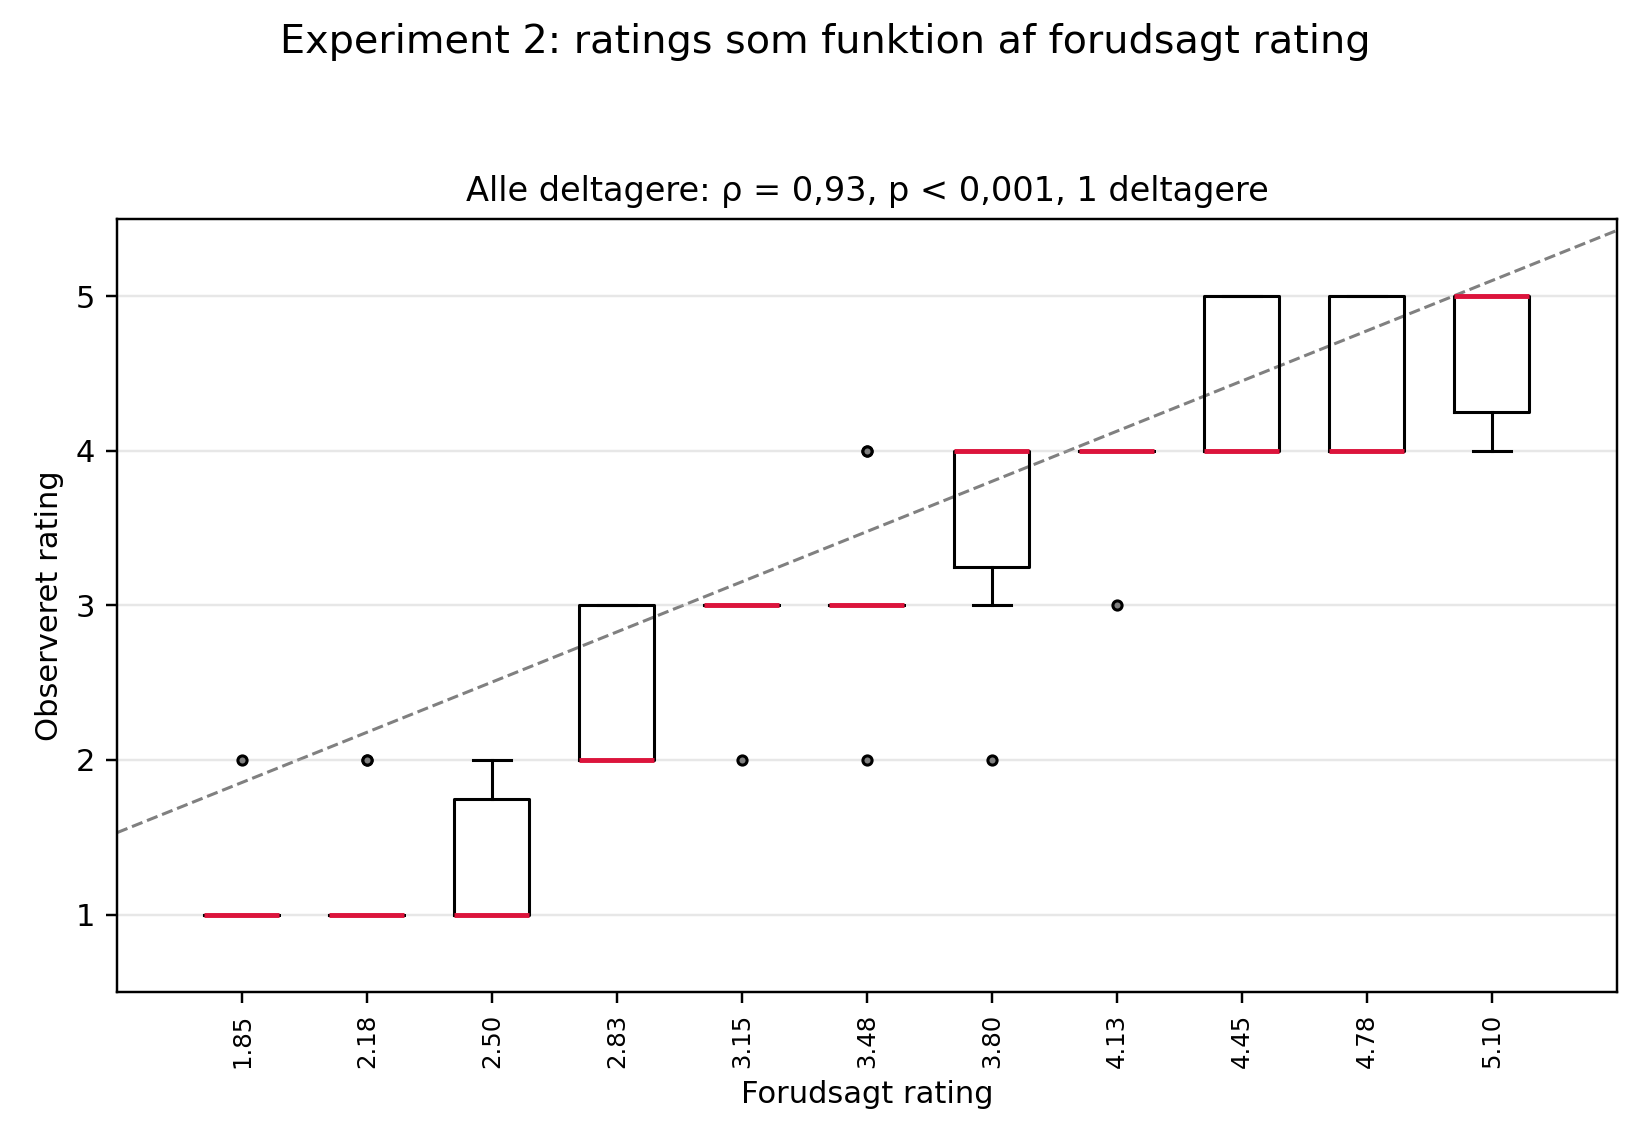
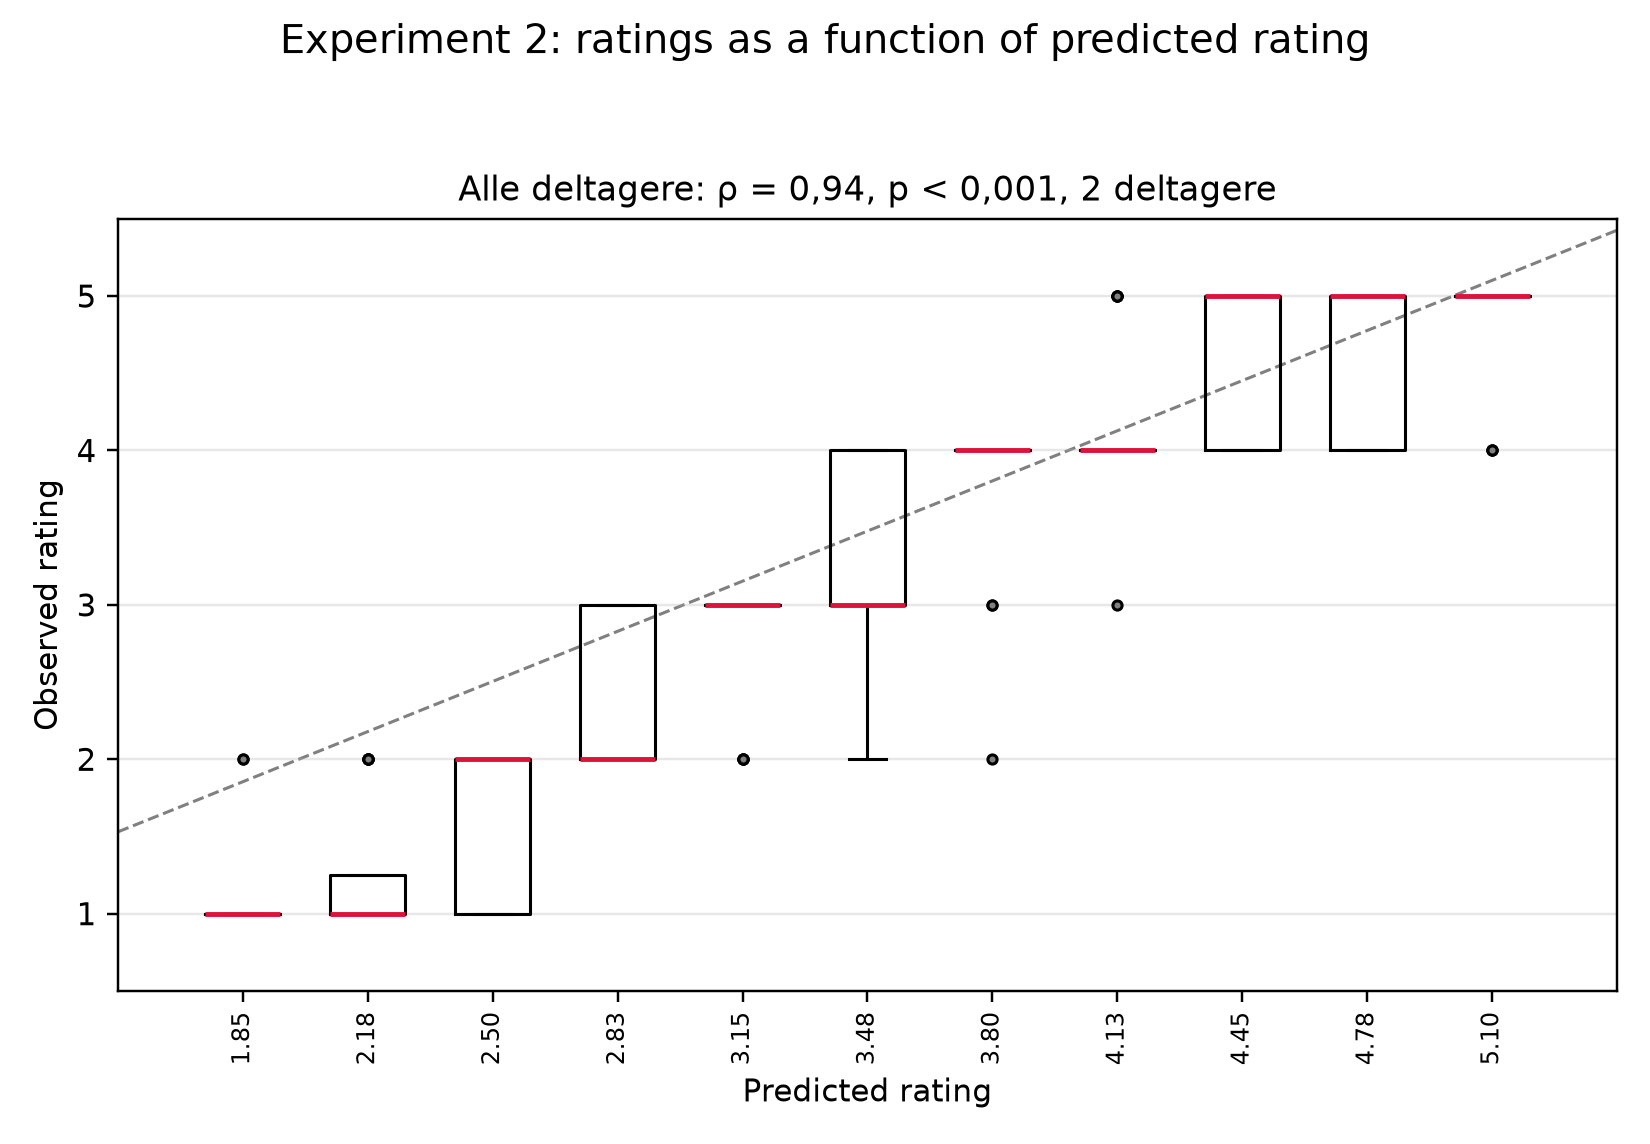
lavet exp2 og exp3

diff --git a/week1/analyze_experiment2.py b/week1/analyze_experiment2.py
@@ -189,8 +189,8 @@ def draw_boxplot(axis, targets: np.ndarray, ratings: np.ndarray, title: str) -> 
     axis.set_yticks(range(1, 6))
     axis.set_xticks(targets)
     axis.set_xticklabels([f"{value:.2f}" for value in targets], rotation=90, fontsize=8)
-    axis.set_xlabel("Forudsagt rating")
-    axis.set_ylabel("Observeret rating")
+    axis.set_xlabel("Predicted rating")
+    axis.set_ylabel("Observed rating")
     axis.set_title(title, fontsize=11)
     axis.grid(axis="y", alpha=0.3)
 
@@ -214,7 +214,7 @@ def save_participant_boxplots(results: list[dict], output_path: Path) -> None:
     for index in range(len(results), n_rows * n_cols):
         axes[index // n_cols][index % n_cols].axis("off")
 
-    fig.suptitle("Experiment 2: ratings som funktion af forudsagt rating", fontsize=14)
+    fig.suptitle("Experiment 2: ratings as a function of predicted rating", fontsize=14)
     fig.tight_layout(rect=(0, 0, 1, 0.94))
     fig.savefig(output_path, dpi=220)
     plt.close(fig)
@@ -229,7 +229,7 @@ def save_group_boxplot(results: list[dict], pooled: dict, output_path: Path) -> 
         + f", {len(results)} deltagere"
     )
     draw_boxplot(axis, pooled["targets"], pooled["ratings"], title)
-    fig.suptitle("Experiment 2: ratings som funktion af forudsagt rating", fontsize=13)
+    fig.suptitle("Experiment 2: ratings as a function of predicted rating", fontsize=13)
     fig.tight_layout(rect=(0, 0, 1, 0.94))
     fig.savefig(output_path, dpi=220)
     plt.close(fig)

diff --git a/week1/sec251.md b/week1/sec251.md
@@ -107,4 +107,45 @@ images appear as expected and, if not, what the reason could be.
 6. One common problem that can occur when generating the synthetic images is that the generation
 of images extends beyond the data. The problem typically occurs when the facial feature that the
 participants rate in the experiment is not very prominent. In this case, the norm of the weight
-vector, w, are close to zero. Inspecting Equation 2.22 you can see that the model will predi
+vector, w, are close to zero. Inspecting Equation 2.22 you can see that the model will predict
+that all images are rated by the rating given by the intercept. This is called regression towards
+the mean because the intercept reflects the average rating.
+You can see from Equation 2.27 that α → ∞ when ∥w∥ → 0. Therefore, the synthetic images will
+lie outside of the distribution of the input images where the model fails. The synthetic images
+might appear grotesque and may not even resemble faces.
+Test whether your synthetic images lie outside the distribution of the input images by calculating
+the rating that the model predicts for each of your input images. Find the minimum and maximum
+value. This gives you the range of the distribution. Is this the same range as the range that you
+are using to generate synthetic images? If not, then generate new synthetic images that falls
+within the distribution of predicted ratings.
+In your report, describe the he minimum and maximum value for the rating that the model
+predicts for the stimuli that you used to train it. Evaluate whether they deviate substantially
+from the minimum and maximum ratings that you used to create your stimuli. If they do deviate
+substantially, then create a new set of synthetic images and present those in your report.
+7. Conduct Experiment 2 and analyse the results Modify the script you used to present images in
+Experiment 1, so that it can present all the synthetic images that you have created at least 10
+times in random order. Use the modified script to run the experiment. Each member of your
+group should run the experiment once.
+In your report, make a box plot of the ratings as a function of the predicted rating for each
+test-participant. Calculate Spearman’s rank correlation coeﬀicient, ρ. Estimate if the correlation
+coeﬀicients are close to 1 as expected.
+8. Conduct Experiment 3. In this experiment, you should test whether your synthetic stimuli can
+produce a perceptual after-effect. The adapting stimulus should be a synthetic face located at
+one endpoint of the continuum defined by your model. Use each of the two endpoints as adapting
+stimuli in two separate adaptation conditions. The test stimuli should lie close to the neutral face.
+Use three test stimuli for each adaptation condition, giving a total of six experimental conditions.
+Add a fixation point to the centre of every stimulus so that the observer has a fixed point to gaze
+at during both the adaptation and test periods.
+The structure of each experimental trial should be as follows. First, display the adapting stimulus
+for 20–30 seconds. Immediately afterwards, display the test stimulus for 0.5–1.0 seconds. The
+test stimulus should be presented only briefly so that the observer judges it while still under the
+influence of the adapting stimulus. After the test stimulus has disappeared, prompt the observer
+for a response in the same way as in the previous experiment.
+The predicted after-effect is that perception of the test stimulus is shifted away from the adapting
+stimulus. Thus, the same test face should receive systematically different ratings depending on
+which endpoint of the continuum was used for adaptation.
+In your report, plot the ratings for the three test stimuli separately for the two adaptation conditions.
+For each test stimulus, compare the ratings obtained after adaptation to the two opposite endpoints.
+Determine whether the direction of the difference is consistent with the predicted perceptual after-
+effect.
+9. In your report, specify each group member’s contribution for every part of the report.
